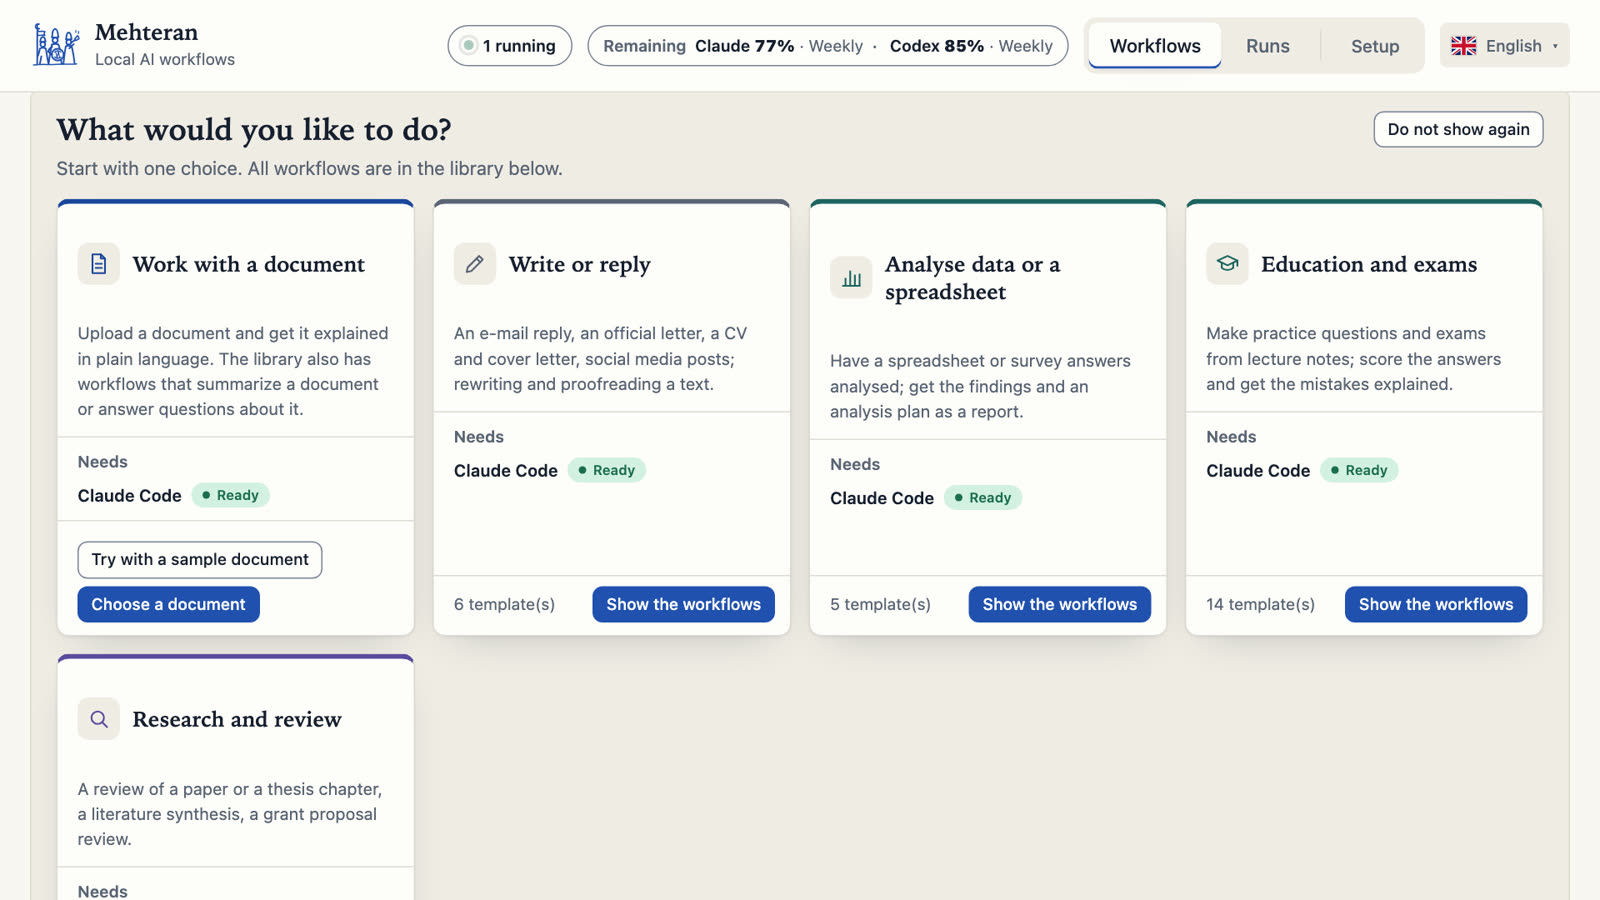
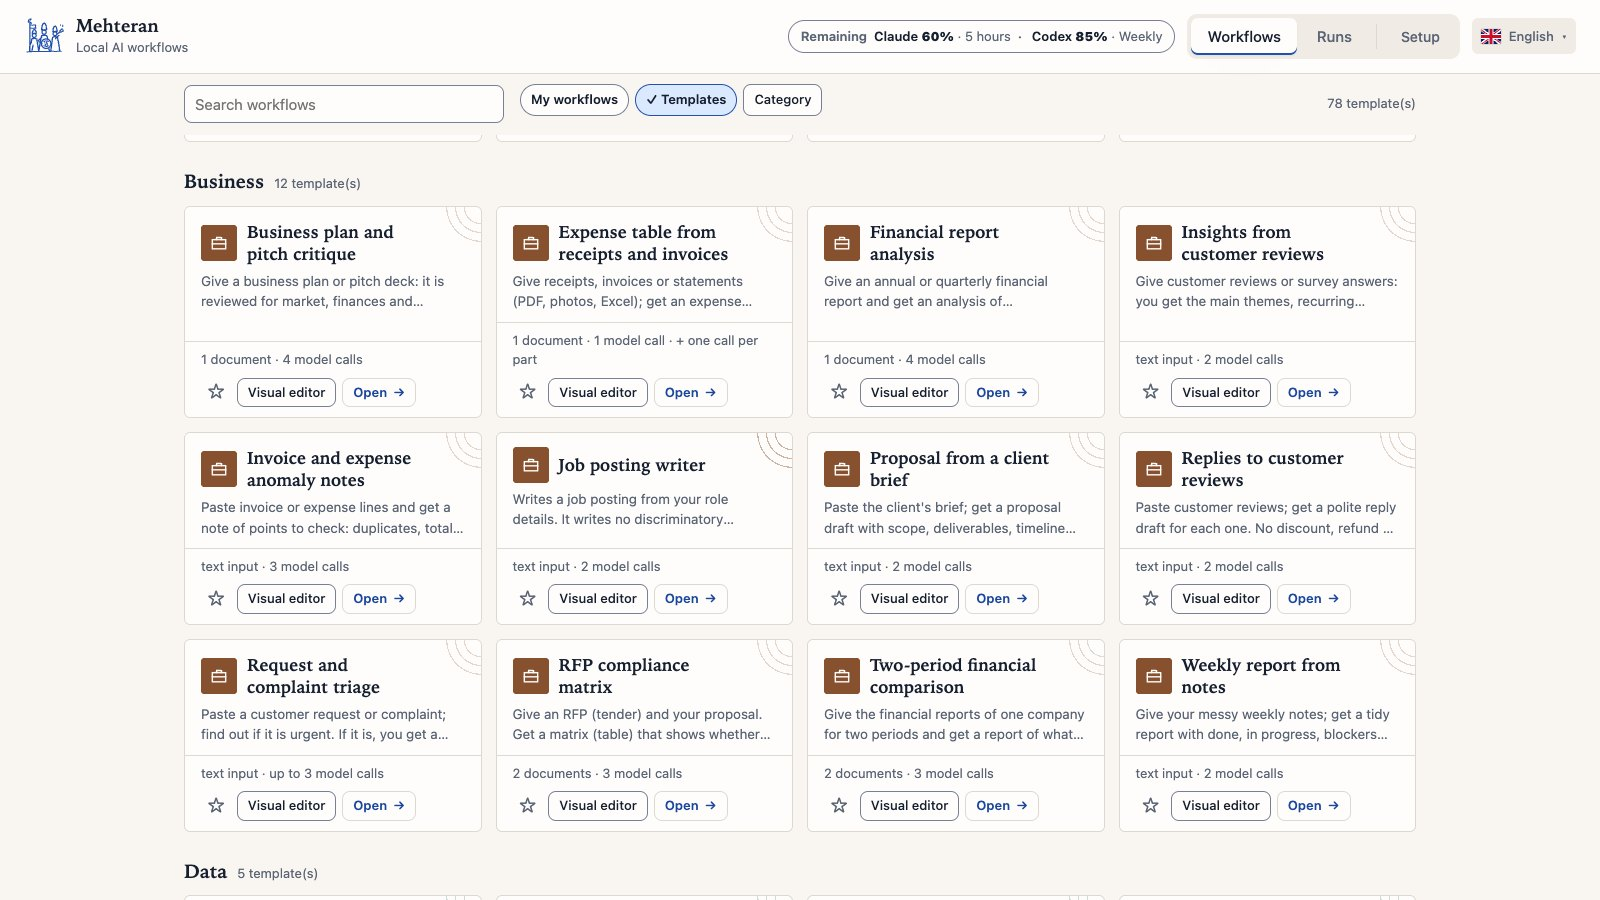
README and docs: Mehteran in one minute, an example workflow, the new library

diff --git a/docs/docs.html b/docs/docs.html
@@ -50,6 +50,15 @@
     <h1>Mehteran docs</h1>
     <p><a href="#run">Run your first workflow</a> · <a href="#build">Build a workflow</a> · <a href="#troubleshooting">Troubleshoot</a></p>
     <p>Everything you need to install Mehteran, connect your AI tools, run and build workflows. The <a href="https://github.com/tolgabuyuktanir/Mehteran/blob/main/docs/mehteran.md">full reference</a> has every detail, the API and the internals.</p>
+    <h2 class="minute">Mehteran in one minute</h2>
+    <ul class="minute">
+      <li><b>What it is.</b> A free app that runs on your computer. It does a job as a workflow: a few steps that you can read.</li>
+      <li><b>What it does.</b> It reads your files, asks an AI model, checks the answer, waits for your approval, and saves a Word or PDF file.</li>
+      <li><b>Why use it.</b> You write the instructions once. Then you repeat the job with one click, for one file or for fifty.</li>
+      <li><b>What it costs.</b> Nothing extra. It uses the AI subscription that you already pay for, or a free model on your computer.</li>
+      <li><b>How it differs from a chat window.</b> A chat gives one answer, once. A workflow reads several files in parallel, lets a second model check the first, and keeps every run.</li>
+      <li><b>How it differs from automation services.</b> No Mehteran account, no Mehteran server, no API key. Your files and results stay on your disk.</li>
+    </ul>
   </header>
   <p class="empty-search" hidden>No section contains these words.</p>
 
@@ -478,6 +487,15 @@ outputs:
     <h1>Mehteran belgeleri</h1>
     <p><a href="#tr-calistir">İlk iş akışınızı çalıştırın</a> · <a href="#tr-olustur">Kendi akışınızı oluşturun</a> · <a href="#tr-sorunlar">Sorun giderin</a></p>
     <p>Mehteran'ı kurmak, yapay zekâ araçlarınızı bağlamak, iş akışlarını çalıştırmak ve oluşturmak için gereken her şey. Bütün ayrıntılar, API ve iç yapı <a href="https://github.com/tolgabuyuktanir/Mehteran/blob/main/docs/mehteran.tr.md">ayrıntılı başvuru belgesinde</a>.</p>
+    <h2 class="minute">Bir dakikada Mehteran</h2>
+    <ul class="minute">
+      <li><b>Nedir?</b> Bilgisayarınızda çalışan ücretsiz bir uygulama. Bir işi iş akışı olarak yapar: okuyabileceğiniz birkaç adım.</li>
+      <li><b>Ne yapar?</b> Dosyalarınızı okur, bir yapay zekâ modeline sorar, cevabı denetler, onayınızı bekler ve Word ya da PDF dosyası kaydeder.</li>
+      <li><b>Neden kullanılır?</b> Talimatları bir kez yazarsınız. Sonra aynı işi tek tıklamayla tekrarlarsınız: bir dosya için ya da elli dosya için.</li>
+      <li><b>Maliyeti nedir?</b> Ek ücret yok. Zaten ödediğiniz yapay zekâ aboneliğini ya da bilgisayarınızdaki ücretsiz bir modeli kullanır.</li>
+      <li><b>Sohbet penceresinden farkı nedir?</b> Sohbet bir kez, tek bir cevap verir. İş akışı birkaç dosyayı paralel okur, ilk modeli ikinci bir modele denetletir ve her çalıştırmayı saklar.</li>
+      <li><b>Otomasyon servislerinden farkı nedir?</b> Mehteran hesabı yok, Mehteran sunucusu yok, API anahtarı yok. Dosyalarınız ve sonuçlarınız diskinizde kalır.</li>
+    </ul>
   </header>
   <p class="empty-search" hidden>Bu kelimeleri içeren bir bölüm yok.</p>
 

diff --git a/README.tr.md b/README.tr.md
@@ -26,7 +26,18 @@
 
 **[Hızlı başlangıç ↓](#hızlı-başlangıç)** · [50 saniyelik videoyu izleyin ▶](https://tolgabuyuktanir.github.io/Mehteran/assets/video/literature-tr.mp4) · [Belgeler](https://tolgabuyuktanir.github.io/Mehteran/docs.html?lang=tr) · [Yenilikler ↓](#yenilikler)
 
-<br>
+</div>
+
+## Bir dakikada Mehteran
+
+- **Nedir?** Bilgisayarınızda çalışan ücretsiz bir uygulama. Bir işi iş akışı olarak yapar: okuyabileceğiniz birkaç adım.
+- **Ne yapar?** Dosyalarınızı okur, bir yapay zekâ modeline sorar, cevabı denetler, onayınızı bekler ve Word ya da PDF dosyası kaydeder.
+- **Neden kullanılır?** Talimatları bir kez yazarsınız. Sonra aynı işi tek tıklamayla tekrarlarsınız: bir dosya için ya da elli dosya için.
+- **Maliyeti nedir?** Ek ücret yok. Zaten ödediğiniz yapay zekâ aboneliğini ya da bilgisayarınızdaki ücretsiz bir modeli kullanır.
+- **Sohbet penceresinden farkı nedir?** Sohbet bir kez, tek bir cevap verir. İş akışı birkaç dosyayı paralel okur, ilk modeli ikinci bir modele denetletir ve her çalıştırmayı saklar.
+- **Otomasyon servislerinden farkı nedir?** Mehteran hesabı yok, Mehteran sunucusu yok, API anahtarı yok. Dosyalarınız ve sonuçlarınız diskinizde kalır.
+
+<div align="center">
 
 <img src="docs/assets/readme/hero-tr.gif" width="880" alt="Mehteran'da bir literatür sentezi: üç makale ve bir araştırma sorusu; Claude yazar, Codex ikinci görüşü verir; makaleler paralel okunur; Codex her atfı denetler; rapor uyuşmaları, çelişkileri ve düzeltilen ya da sınırlanan 16 iddiayı listeler; Word, HTML ve Markdown olarak kaydedilir">
 
@@ -47,6 +58,26 @@ Bir iş akışı birkaç adımdan oluşur. Her adımı okuyabilirsiniz; her yapa
 | ⬇ | **Kaydet** | Word, PDF, HTML, Markdown, EPUB, e-posta taslağı, JSON ya da CSV yazar | Mehteran, bu bilgisayarda |
 
 Bir adım, ihtiyaç duyduğu adımlar bitince başlar. Birbirine bağlı olmayan adımlar aynı anda çalışır.
+
+### Bir örnek: Literatür sentezi
+
+Üç makale ve bir araştırma sorusu verirsiniz. İş akışının tamamı şudur:
+
+```mermaid
+flowchart LR
+  q["❓ Araştırma sorusu"] --> s
+  p1["📄 Makale 1"] --> r1["Oku"]
+  p2["📄 Makale 2"] --> r2["Oku"]
+  p3["📄 Makale 3"] --> r3["Oku"]
+  r1 & r2 & r3 --> s["✦ Sentezi yaz<br><b>Claude</b>"]
+  s --> c["✓ Atıfları denetle<br><b>Codex</b>"]
+  r1 & r2 & r3 -.-> c
+  s --> m["Raporu birleştir"]
+  c --> m
+  m --> e["⬇ Raporu kaydet<br>Word · HTML · Markdown"]
+```
+
+Üç makale aynı anda okunur. Claude sentezi kaynak göstererek yazar. Codex her atfı makalelerle karşılaştırır ve düzeltmeleri listeler. Tek bir rapor alırsınız: Word, HTML ve Markdown.
 
 ## Tek uygulama, üç yol
 

diff --git a/README.md b/README.md
@@ -26,7 +26,18 @@
 
 **[Quick start ↓](#quick-start)** · [Watch the 50-second video ▶](https://tolgabuyuktanir.github.io/Mehteran/assets/video/literature-en.mp4) · [Docs](https://tolgabuyuktanir.github.io/Mehteran/docs.html?lang=en) · [What's new ↓](#whats-new)
 
-<br>
+</div>
+
+## Mehteran in one minute
+
+- **What it is.** A free app that runs on your computer. It does a job as a workflow: a few steps that you can read.
+- **What it does.** It reads your files, asks an AI model, checks the answer, waits for your approval, and saves a Word or PDF file.
+- **Why use it.** You write the instructions once. Then you repeat the job with one click, for one file or for fifty.
+- **What it costs.** Nothing extra. It uses the AI subscription that you already pay for, or a free model on your computer.
+- **How it differs from a chat window.** A chat gives one answer, once. A workflow reads several files in parallel, lets a second model check the first, and keeps every run.
+- **How it differs from automation services.** No Mehteran account, no Mehteran server, no API key. Your files and results stay on your disk.
+
+<div align="center">
 
 <img src="docs/assets/readme/hero-en.gif" width="880" alt="A literature synthesis in Mehteran: three papers and a research question; Claude writes and Codex gives the second opinion; the papers are read in parallel; Codex checks every citation; the report lists agreements, contradictions and 18 claims corrected or qualified; it is saved as Word, HTML and Markdown">
 
@@ -47,6 +58,26 @@ A workflow is a few steps. You can read every step, and every AI instruction is 
 | ⬇ | **Save** | writes Word, PDF, HTML, Markdown, EPUB, an e-mail draft, JSON or CSV | Mehteran, on this computer |
 
 A step starts when the steps that it needs have finished. Steps that do not depend on each other run at the same time.
+
+### An example: Literature synthesis
+
+You give three papers and a research question. This is the whole workflow:
+
+```mermaid
+flowchart LR
+  q["❓ Research question"] --> s
+  p1["📄 Paper 1"] --> r1["Read"]
+  p2["📄 Paper 2"] --> r2["Read"]
+  p3["📄 Paper 3"] --> r3["Read"]
+  r1 & r2 & r3 --> s["✦ Write the synthesis<br><b>Claude</b>"]
+  s --> c["✓ Check the citations<br><b>Codex</b>"]
+  r1 & r2 & r3 -.-> c
+  s --> m["Combine the report"]
+  c --> m
+  m --> e["⬇ Save the report<br>Word · HTML · Markdown"]
+```
+
+The three papers are read at the same time. Claude writes the synthesis with sources. Codex compares every citation with the papers and lists the corrections. You get one report as Word, HTML and Markdown.
 
 ## One app, three ways
 
